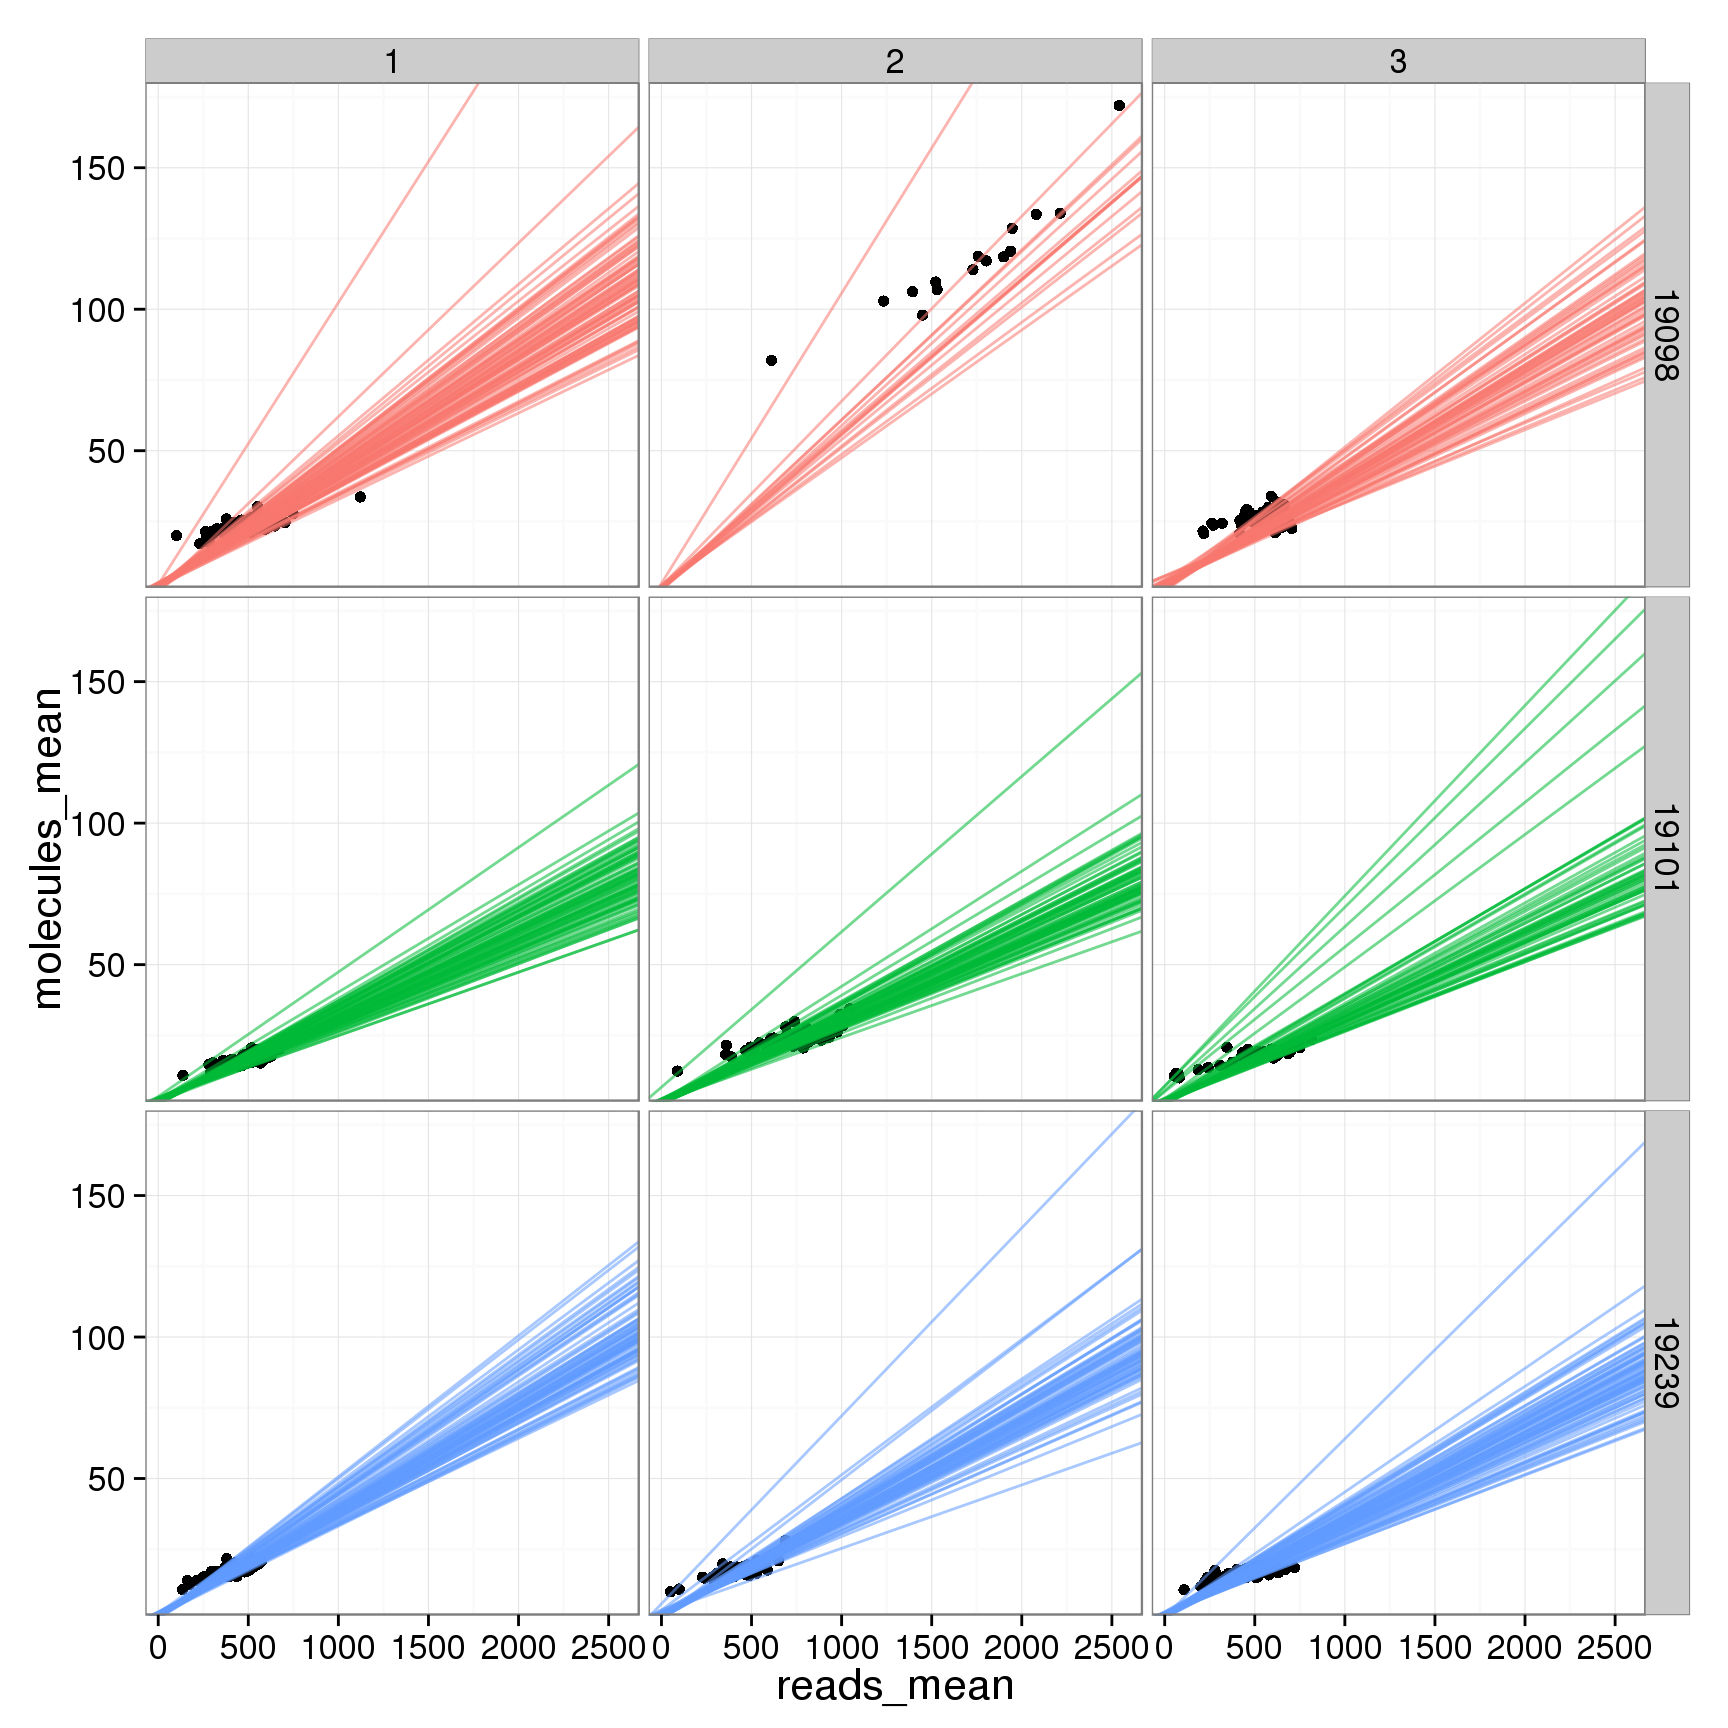
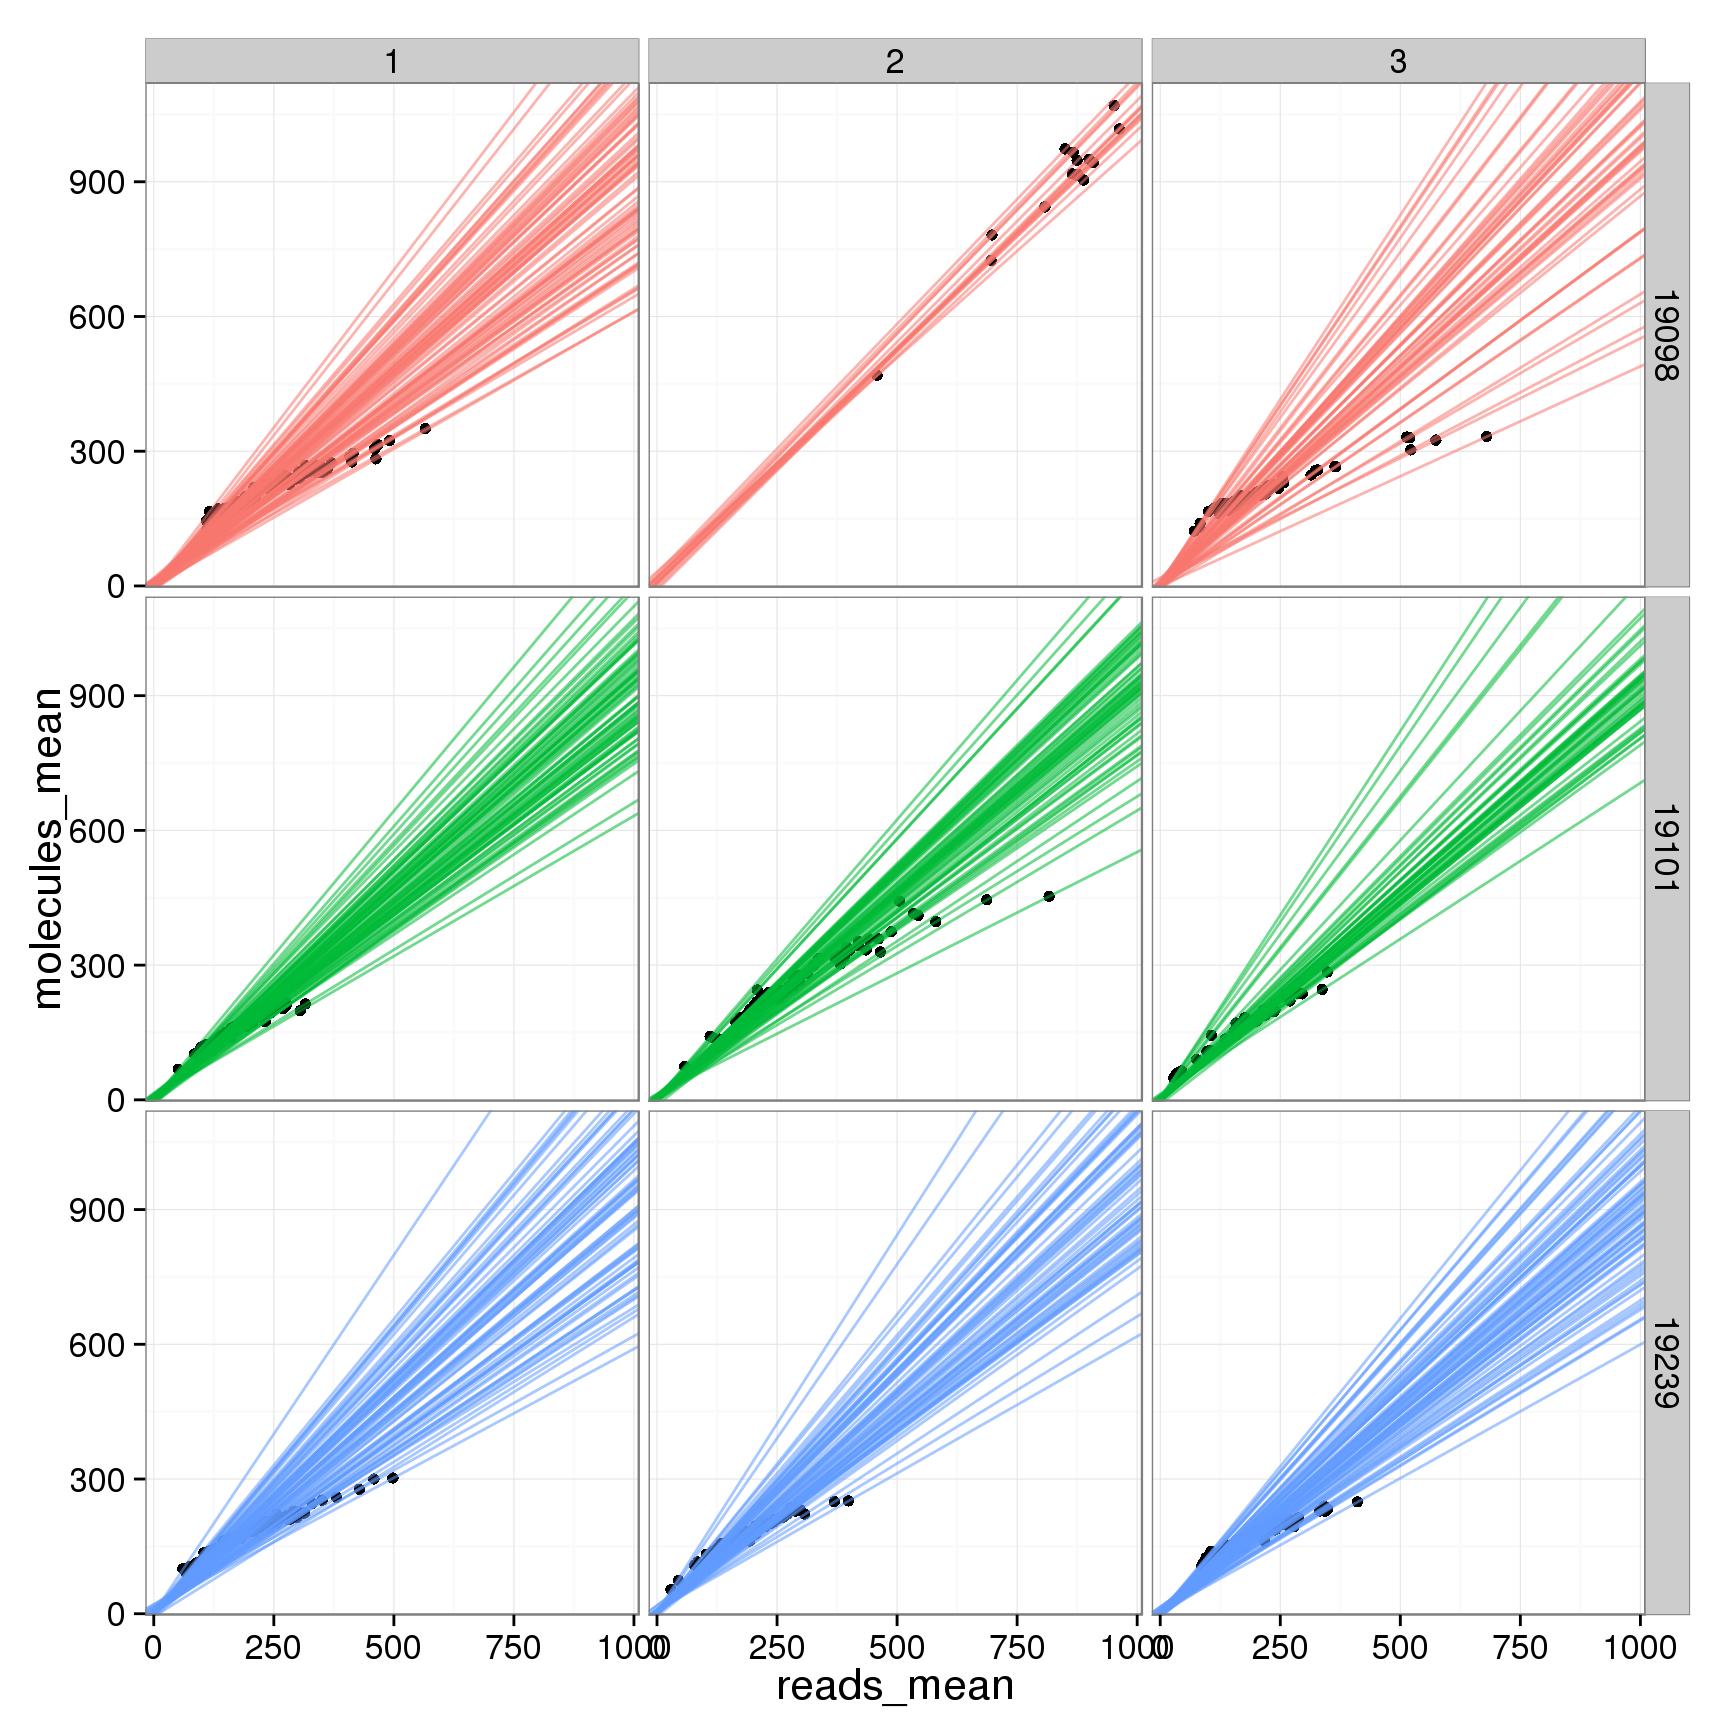
Build site.

diff --git a/analysis/stemness.html b/analysis/stemness.html
@@ -128,13 +128,14 @@ img {
 <ul>
 <li><a href="#input">Input</a></li>
 <li><a href="#expressions-of-pluripotency-genes-in-ipscs">Expressions of pluripotency genes in iPSCs</a></li>
+<li><a href="#pca-ercc">PCA ERCC</a></li>
 <li><a href="#use-lcls-as-a-negative-control">Use LCLs as a negative control</a></li>
 <li><a href="#the-cv-between-ipsc-and-lcl">The CV between iPSC and LCL</a></li>
 </ul>
 </div>
 
-<p><strong>Last updated:</strong> 2015-08-28</p>
-<p><strong>Code version:</strong> 4b60929b44b585789da8bbab66261d3d17e08b6c</p>
+<p><strong>Last updated:</strong> 2015-09-07</p>
+<p><strong>Code version:</strong> ca4aa72d20c8aaf953483d5e334b5d7d1a6c719d</p>
 <p>Current model of reprogramming suggests that pluripotency occurs in two-phases: a prolonged stochastic phase followed by a rapid deterministic phase. <a href="http://journals.plos.org/plosone/article?id=10.1371/journal.pone.0095304">Chung2014</a> Our iPSCs were reprogrammed and cultured in mane different batches. In addition, some lines have been through different culture mediums. In order to make sure that the variance we observed at the single cell level is not cause by different levels of plupotency, we need to more rigorously estimate the cells status than just carrying out pluritest from the bulk.</p>
 <div id="input" class="section level2">
 <h2>Input</h2>
@@ -220,7 +221,7 @@ color[grep(&quot;19239&quot;, individual)] &lt;- &quot;blue&quot;
 heatmap.2(molecules_single_pluripotency, trace=&quot;none&quot;, cexRow=1, cexCol=1, margins=c(8,8), xlab=&quot;single cells&quot;, ColSideColors=color)</code></pre>
 <p><img src="figure/stemness.Rmd/expressed-pluripotency-gene-1.png" title="" alt="" width="672" style="display: block; margin: auto;" /></p>
 <pre class="r"><code>colorbulk &lt;- rep(c(&quot;red&quot;,&quot;yellow&quot;,&quot;blue&quot;),each=3)
-heatmap.2(reads_bulk_pluripotency, trace=&quot;none&quot;, cexRow=1, cexCol=1, margins=c(8,8),xlab=&quot;bulk&quot;, ColSideColors=colorbulk)</code></pre>
+heatmap.2(reads_bulk_pluripotency, trace=&quot;none&quot;, cexRow=1, cexCol=1, margins=c(8,8),xlab=&quot;bulk&quot;)</code></pre>
 <p><img src="figure/stemness.Rmd/expressed-pluripotency-gene-2.png" title="" alt="" width="672" style="display: block; margin: auto;" /></p>
 <pre class="r"><code>pca_single_cells &lt;- prcomp(t(molecules_single_pluripotency), retx = TRUE, scale. = TRUE, center = TRUE)
 plot(pca_single_cells)</code></pre>
@@ -237,6 +238,43 @@ stopifnot(colnames(pca_single_cells) ==
 pca_single_cells_anno &lt;- cbind(anno_single, pca_single_cells$x)
 ggplot(pca_single_cells_anno, aes(x = PC1, y = PC2, col = as.factor(individual), shape = as.factor(batch))) +geom_point()</code></pre>
 <p><img src="figure/stemness.Rmd/expressed-pluripotency-gene-pca-3.png" title="" alt="" width="672" style="display: block; margin: auto;" /></p>
+</div>
+<div id="pca-ercc" class="section level2">
+<h2>PCA ERCC</h2>
+<pre class="r"><code>## without cpm standardization
+molecules_single_ERCC &lt;- molecules_single_collision[grep(&quot;ERCC&quot;, rownames(molecules_single_collision)), ]
+
+pca_ERCC &lt;- prcomp(t(molecules_single_ERCC), retx = TRUE, scale. = TRUE, center = TRUE)
+plot(pca_ERCC)</code></pre>
+<p><img src="figure/stemness.Rmd/pca-ercc-1.png" title="" alt="" width="672" style="display: block; margin: auto;" /></p>
+<pre class="r"><code>pca_ERCC$perc_explained &lt;- pca_ERCC$sdev^2 / sum(pca_ERCC$sdev^2) * 100
+plot(pca_ERCC$perc_explained)</code></pre>
+<p><img src="figure/stemness.Rmd/pca-ercc-2.png" title="" alt="" width="672" style="display: block; margin: auto;" /></p>
+<pre class="r"><code>stopifnot(colnames(pca_ERCC) == 
+            paste(paste0(&quot;NA&quot;, anno_single$individual),
+                   anno_single$batch,
+                   anno_single$well, sep = &quot;.&quot;))
+
+pca_ERCC_anno &lt;- cbind(anno_single, pca_ERCC$x)
+ggplot(pca_ERCC_anno, aes(x = PC1, y = PC2, col = as.factor(individual), shape = as.factor(batch))) +geom_point()</code></pre>
+<p><img src="figure/stemness.Rmd/pca-ercc-3.png" title="" alt="" width="672" style="display: block; margin: auto;" /></p>
+<pre class="r"><code>## try cpm
+molecules_single_cpm_ERCC &lt;- molecules_single_cpm[grep(&quot;ERCC&quot;, rownames(molecules_single_cpm)), ]
+
+pca_cpm_ERCC &lt;- prcomp(t(molecules_single_cpm_ERCC), retx = TRUE, scale. = TRUE, center = TRUE)
+plot(pca_cpm_ERCC)</code></pre>
+<p><img src="figure/stemness.Rmd/pca-ercc-4.png" title="" alt="" width="672" style="display: block; margin: auto;" /></p>
+<pre class="r"><code>pca_cpm_ERCC$perc_explained &lt;- pca_cpm_ERCC$sdev^2 / sum(pca_cpm_ERCC$sdev^2) * 100
+plot(pca_cpm_ERCC$perc_explained)</code></pre>
+<p><img src="figure/stemness.Rmd/pca-ercc-5.png" title="" alt="" width="672" style="display: block; margin: auto;" /></p>
+<pre class="r"><code>stopifnot(colnames(pca_cpm_ERCC) == 
+            paste(paste0(&quot;NA&quot;, anno_single$individual),
+                   anno_single$batch,
+                   anno_single$well, sep = &quot;.&quot;))
+
+pca_cpm_ERCC_anno &lt;- cbind(anno_single, pca_cpm_ERCC$x)
+ggplot(pca_cpm_ERCC_anno, aes(x = PC1, y = PC2, col = as.factor(individual), shape = as.factor(batch))) +geom_point()</code></pre>
+<p><img src="figure/stemness.Rmd/pca-ercc-6.png" title="" alt="" width="672" style="display: block; margin: auto;" /></p>
 </div>
 <div id="use-lcls-as-a-negative-control" class="section level2">
 <h2>Use LCLs as a negative control</h2>

diff --git a/analysis/compare-reads-v-molecules-in-cells.html b/analysis/compare-reads-v-molecules-in-cells.html
@@ -140,8 +140,8 @@ img {
 </ul>
 </div>
 
-<p><strong>Last updated:</strong> 2015-09-04</p>
-<p><strong>Code version:</strong> 2ceea9387c87573d9a83285ea3beeb7e13e4c13a</p>
+<p><strong>Last updated:</strong> 2015-09-07</p>
+<p><strong>Code version:</strong> ca4aa72d20c8aaf953483d5e334b5d7d1a6c719d</p>
 <p>Comparing the conversion of reads to molecules for each cell. Used three different metrics:</p>
 <ul>
 <li>Raw counts</li>
@@ -412,7 +412,7 @@ anno_regression_cpm_ERCC$molecules_mean &lt;- apply(molecules_cpm_ERCC, 2, mean)
 
 ggplot(anno_regression_cpm_ERCC, aes(x= reads_mean, y= molecules_mean)) + geom_point() + geom_abline(aes(intercept=Intercept, slope=slope, col=as.factor(individual), alpha= 0.5), data=anno_regression_cpm_ERCC) </code></pre>
 <p><img src="figure/compare-reads-v-molecules-in-cells.Rmd/conversion-in-cell-cpm-ERCC-3.png" title="" alt="" width="864" style="display: block; margin: auto;" /></p>
-<pre class="r"><code>ggplot(anno_regression_ERCC, aes(x= reads_mean, y= molecules_mean)) + geom_point() + geom_abline(aes(intercept=Intercept, slope=slope, col=as.factor(individual), alpha= 0.5), data=anno_regression) + facet_grid(individual ~ batch)</code></pre>
+<pre class="r"><code>ggplot(anno_regression_cpm_ERCC, aes(x= reads_mean, y= molecules_mean)) + geom_point() + geom_abline(aes(intercept=Intercept, slope=slope, col=as.factor(individual), alpha= 0.5), data=anno_regression_cpm_ERCC) + facet_grid(individual ~ batch)</code></pre>
 <p><img src="figure/compare-reads-v-molecules-in-cells.Rmd/conversion-in-cell-cpm-ERCC-4.png" title="" alt="" width="864" style="display: block; margin: auto;" /></p>
 </div>
 <div id="tmm-normalized-counts-per-million" class="section level3">
